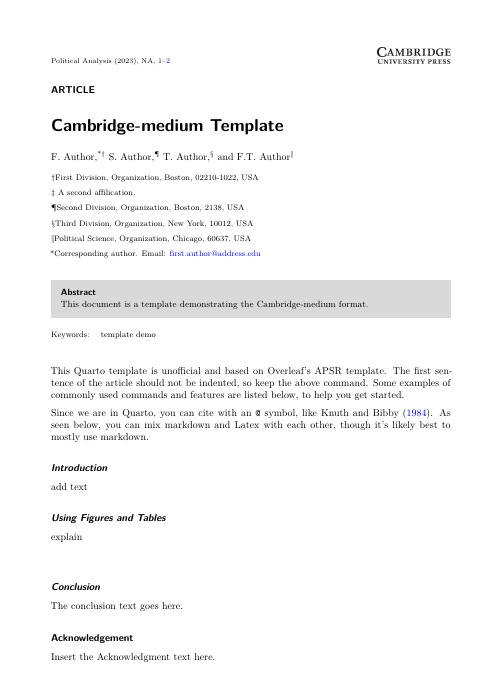
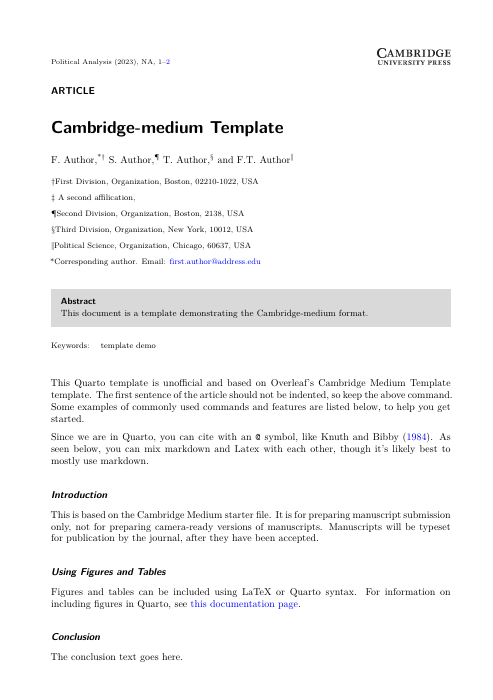
fix acknowledgements

diff --git a/_extensions/cambridge-medium/partials/before-bib.tex b/_extensions/cambridge-medium/partials/before-bib.tex
@@ -1,0 +1,5 @@
+$if(acknowledgement)$
+\begin{acknowledgement}
+$acknowledgement$
+\end{acknowledgement}
+$endif$
